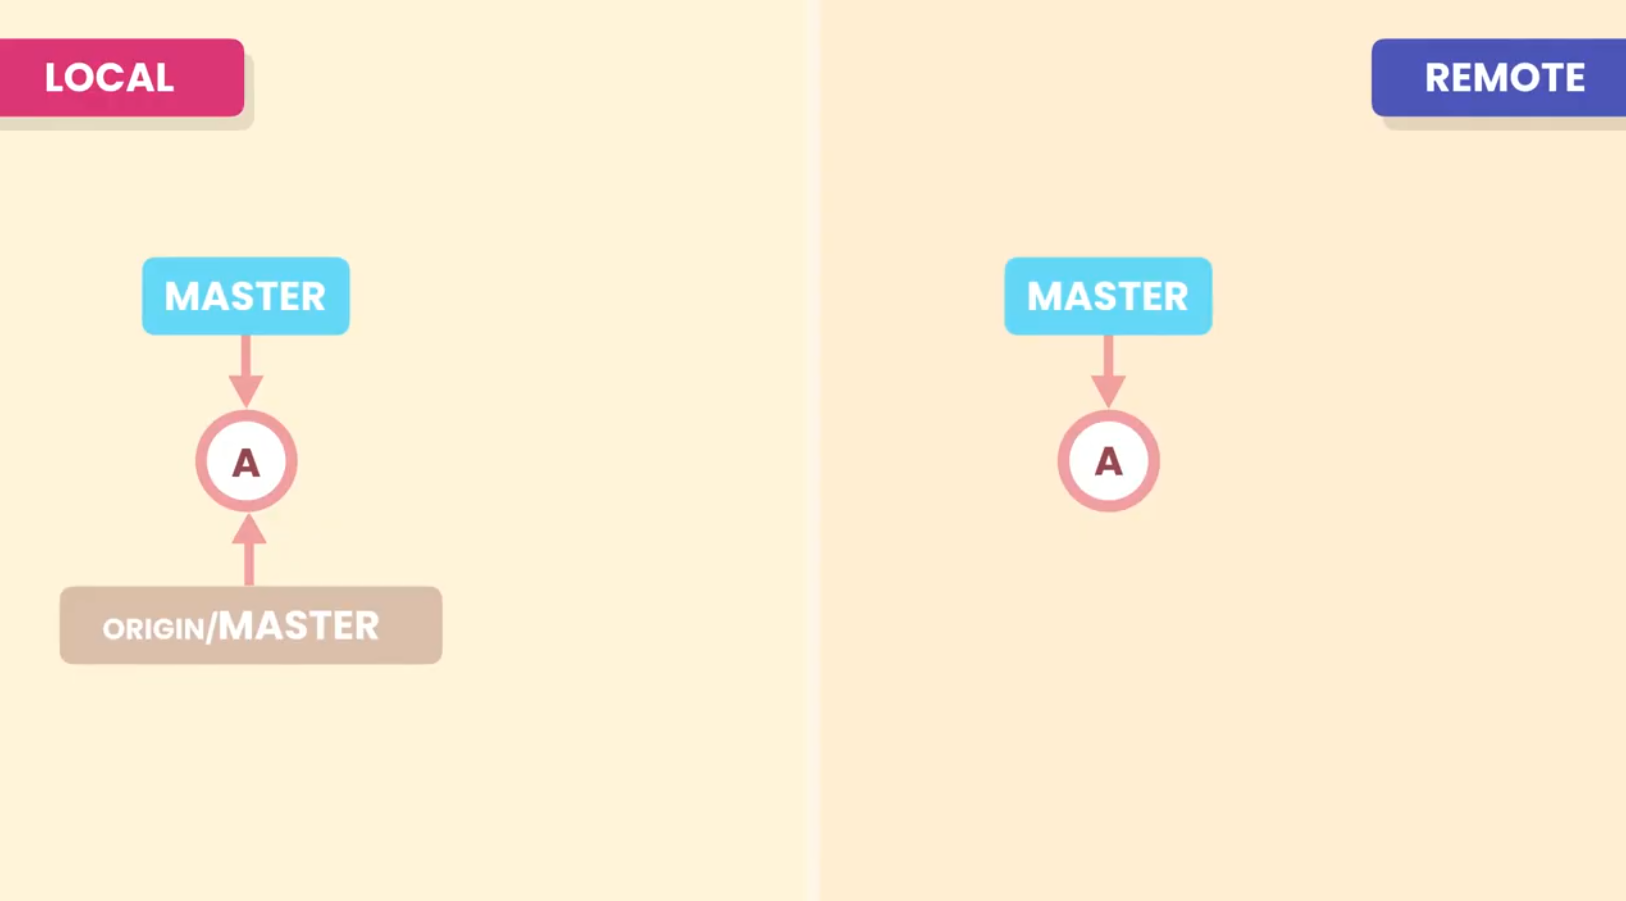
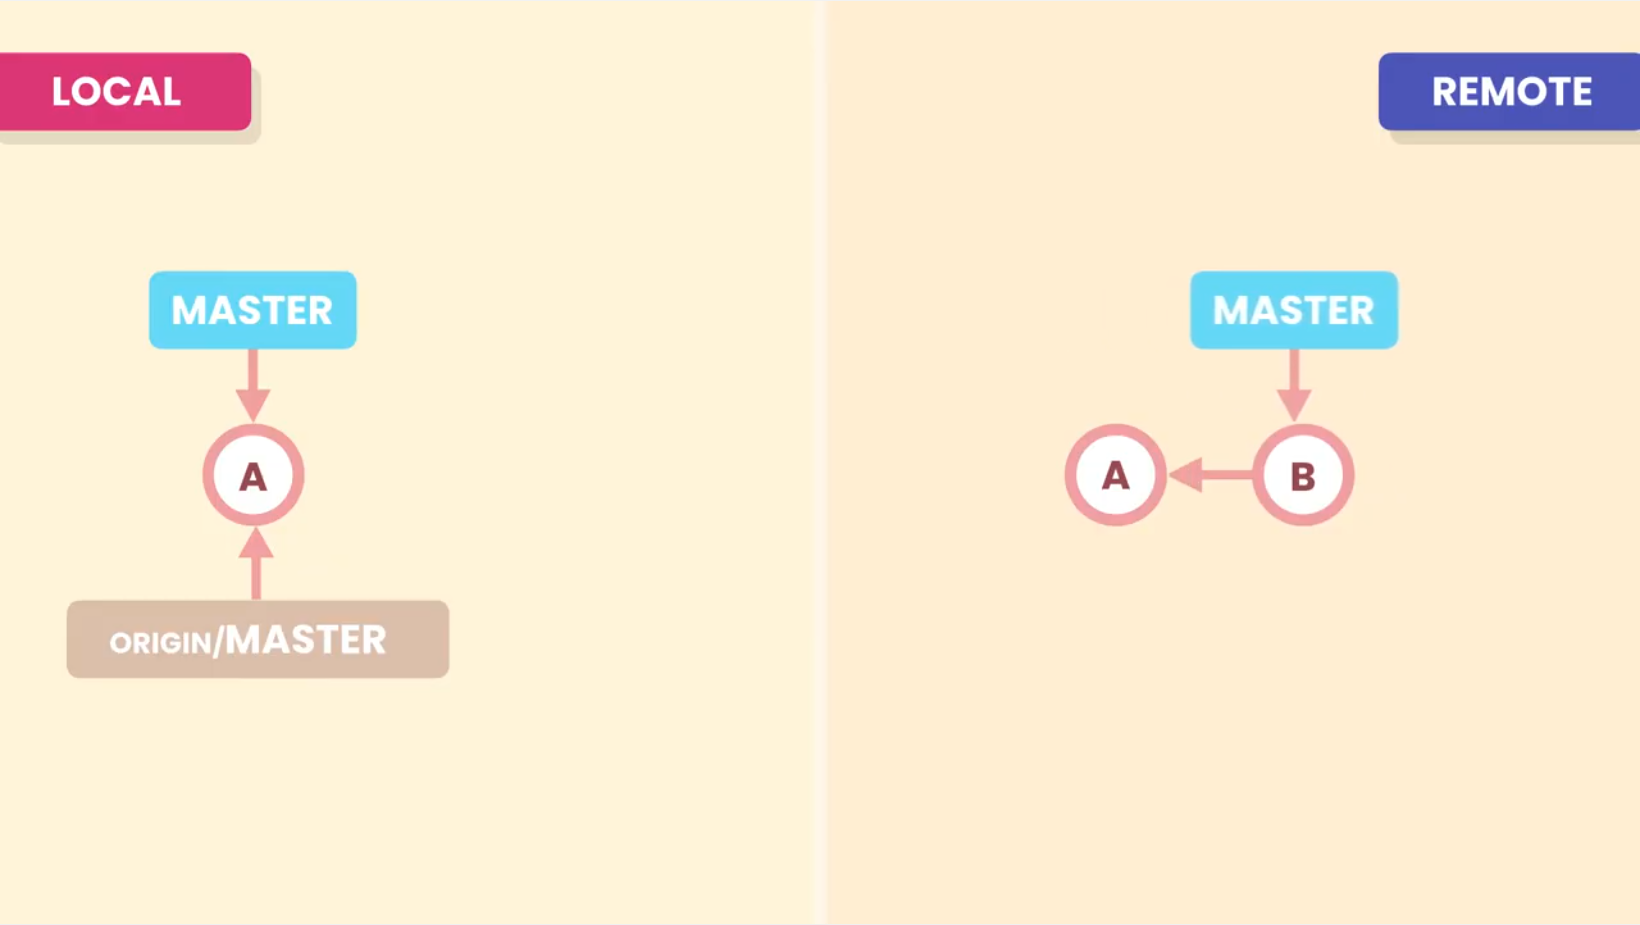
Fetching Introduction

diff --git a/05 Collaborating/03-Fetching.md b/05 Collaborating/03-Fetching.md
@@ -1,0 +1,59 @@
+# Fetching
+
+The **Local Repository** is not connected/sync to the remote repository
+
+Let's consider this situation on the left side where we have our local repository and on the right side we have our remote repository.
+
+The **Local Repository** and **Remote Repository** work independently.<br> 
+If we have new commits (in this case **B**) in our **Remote Repository**, because any another collaborator pushed their work, our **Local Repository** will not be aware of it.
+
+![](./images/Screenshot3.png)
+
+We have to use the `git fetch <remote-repository>` command to download the new commits of **Remote Repository**. When we do so the **_`origin/master`_** pointer (remote tracking branch) will move forward, to point the latest commit fetched from the **Remote Repository**. <br>
+But our working directory will not be updated as master will still be
+pointing to **A**.
+
+```shell
+>git fetch origin
+```
+![](./images/Screenshot4.png)
+
+Optionally we can specify a branch to the `fetch` command, like `git fetch <remote-repository> <branch-name>` to download commits of that specified branch only.
+
+Ex:
+```shell
+>git fetch origin bugfix
+```
+
+>`origin` is the default option for remote-repository and `master/main` is the default option for remote-branch, so no need to specify them explicitly.<br>
+>So `git fetch` is equivalent to `git fetch origin master/main`
+
+To update our branch with the changes downloaded from the `fetch` command, we have to merge them with our branch, with the command:
+
+```shell
+>git merge origin/master
+```
+
+Since our branches have not diverged,there will be fast forward merge.
+In contrast if our branches would have direverged then there would be 3-way merge and if we had conflicts we would need to resolve those for merging .
+
+The master pointer will now point to the latest fetched commit from remote repository.
+
+## Remote and Local branches
+
+With the command `git branch -vv` we can se how the remote and local branches are diverging.
+
+```shell
+>git branch -vv
+* main bbe3812 [origin/main: ahead 2] add details to lesson
+```
+
+In the above output from the `git branch -vv` we can see that our local **_`main`_** branch is connect to the remote **_`origin/main`_** branch. And the local branch is ahead by 2 commits.
+
+## Summary
+
+![](./images/git-fetch.gif)
+
+- `git fetch` will download the latest commit from the remote repository and will move `origin/master` pointer to point the latest fetched commit on remote branch.
+- `git merge` will merge the latest changes fetched into the `master` branch.
+
